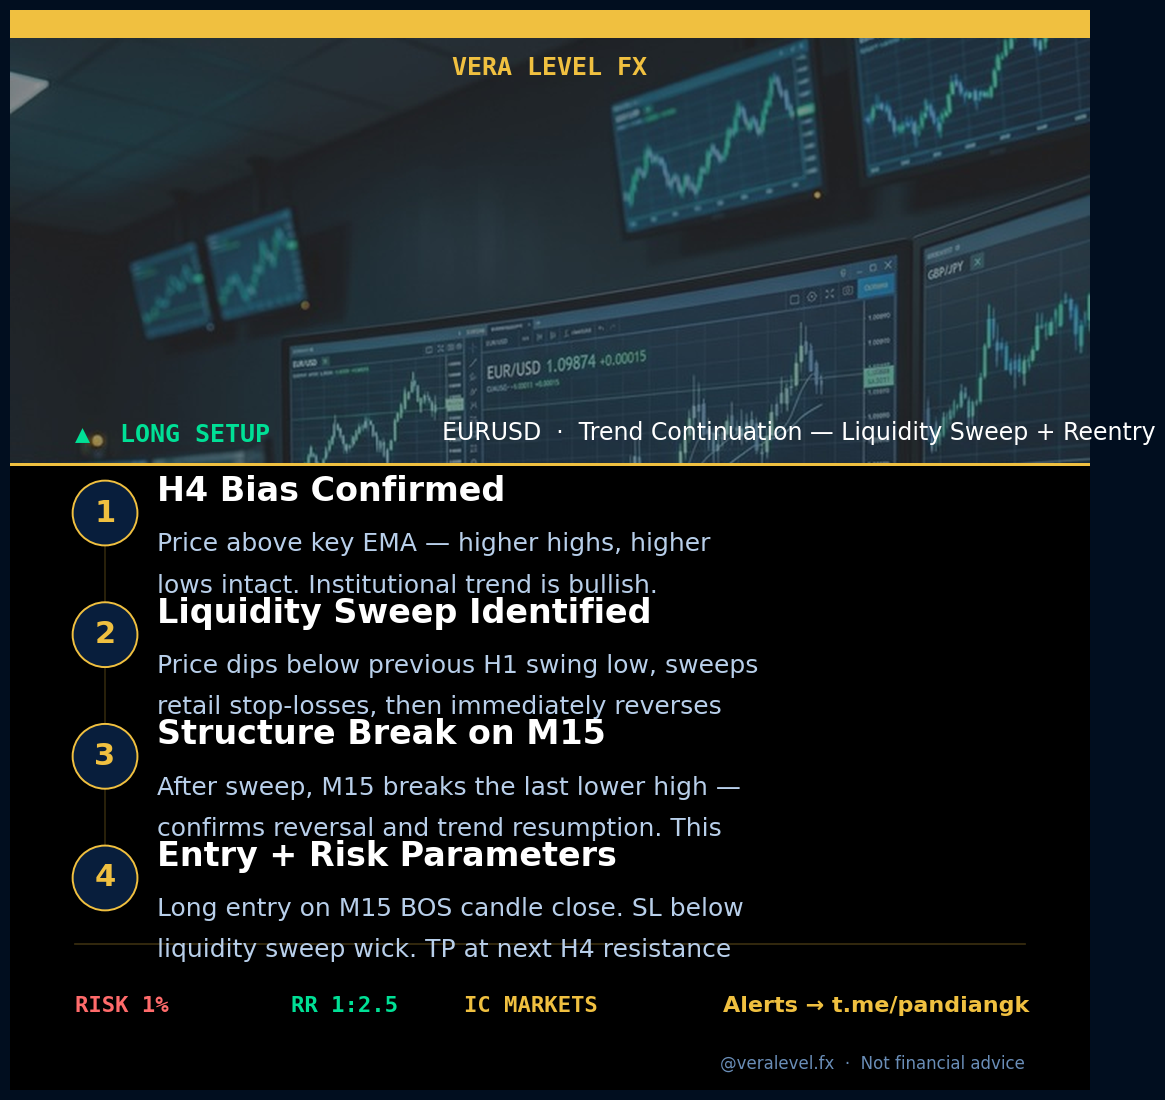
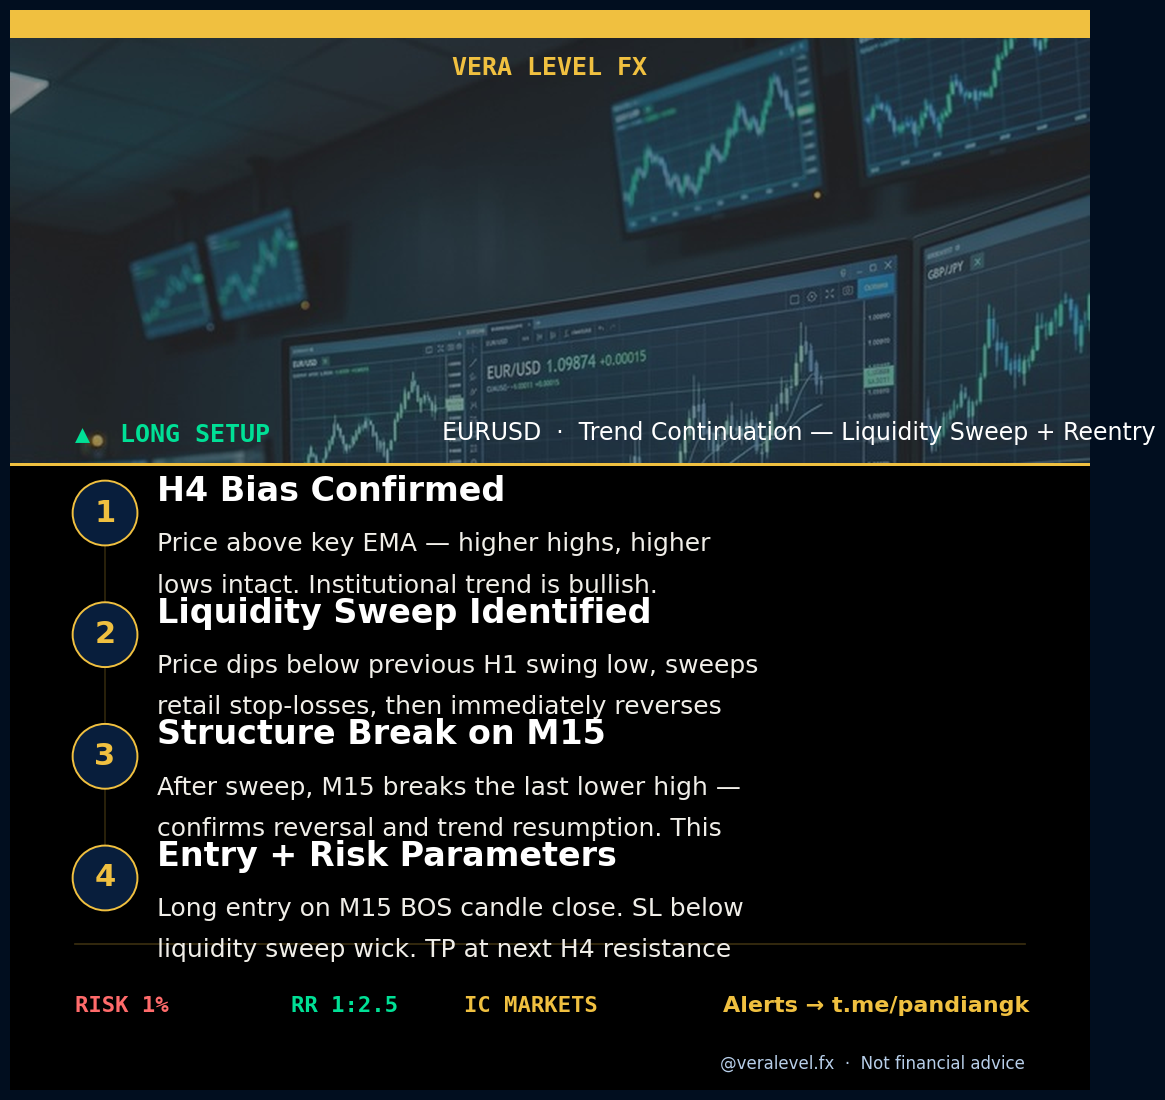
style: fix font visibility — upgrade DIM labels to MUTED, body to CREAM
DIM (#6A8EB8) was invisible on most AI backgrounds. Changes:
- All data labels (ACCOUNT SIZE, EQUITY, BALANCE, column headers,
  stat labels, entry prices): DIM → MUTED (#B8CFEA)
- Body/description/secondary text: MUTED → CREAM (#F0EEE8)
- Footer alpha transparency removed — color=MUTED at full opacity
- Column header fontsize 12 → 13 for better legibility

diff --git a/instagram/generate_edu.py b/instagram/generate_edu.py
@@ -251,28 +251,28 @@ def make_risk_post(content: dict):
     # Stats — plain text, no boxes
     _hline(ax, 0.315, alpha=0.25)
     ax.text(0.06, 0.292, 'ACCOUNT SIZE',
-            fontsize=14, color=DIM, va='center',
+            fontsize=14, color=MUTED, va='center',
             transform=ax.transAxes, fontfamily='monospace', zorder=5)
     ax.text(0.06, 0.258, f'${content["example_account"]:,}',
             fontsize=36, fontweight='bold', color=GOLD, va='center',
             transform=ax.transAxes, zorder=5)
 
     ax.text(0.52, 0.292, 'MAX RISK / TRADE',
-            fontsize=14, color=DIM, va='center',
+            fontsize=14, color=MUTED, va='center',
             transform=ax.transAxes, fontfamily='monospace', zorder=5)
     ax.text(0.52, 0.258, f'${content["example_risk"]:,}',
             fontsize=36, fontweight='bold', color=RED, va='center',
             transform=ax.transAxes, zorder=5)
 
     ax.text(0.06, 0.215, f'RR  →  {content["example_rr"]}',
-            fontsize=18, color=MUTED, va='center',
+            fontsize=18, color=CREAM, va='center',
             transform=ax.transAxes, fontfamily='monospace', zorder=5)
 
     # CTA
     _hline(ax, 0.196, alpha=0.25)
     ax.text(0.06, 0.162,
             os.environ.get('BRAND_SIGNAL_CTA', '>>  join our live signals channel'),
-            fontsize=20, color=MUTED, va='center',
+            fontsize=20, color=CREAM, va='center',
             transform=ax.transAxes, fontfamily='monospace', zorder=5)
 
     # Footer
@@ -281,7 +281,7 @@ def make_risk_post(content: dict):
             fontsize=15, color=GOLD, va='center', ha='right',
             transform=ax.transAxes, fontweight='bold', zorder=5)
     ax.text(0.94, 0.030, 'Not financial advice  ·  IC MARKETS · ASIC',
-            fontsize=12, color=DIM, ha='right', va='center',
+            fontsize=12, color=MUTED, ha='right', va='center',
             transform=ax.transAxes, fontfamily='monospace', zorder=5)
 
     return fig
@@ -318,7 +318,7 @@ def make_pairs_post(content: dict):
             ha='center', va='center',
             transform=ax.transAxes, fontfamily='monospace', zorder=6)
     ax.text(0.5, 0.916, 'ALGORITHMIC FOREX  ·  IC MARKETS  ·  MYFXBOOK VERIFIED',
-            fontsize=13, color=MUTED, ha='center', va='center',
+            fontsize=13, color=CREAM, ha='center', va='center',
             transform=ax.transAxes, fontfamily='monospace', zorder=6)
 
     # PAIR SPOTLIGHT label (at top of black panel)
@@ -354,7 +354,7 @@ def make_pairs_post(content: dict):
         cx, cy = xs[i % 2], ys[i // 2]
         # Label
         ax.text(cx, cy + ch - 0.004, label,
-                fontsize=13, color=DIM, fontweight='bold', va='top',
+                fontsize=13, color=MUTED, fontweight='bold', va='top',
                 transform=ax.transAxes, fontfamily='monospace', zorder=6)
         # Value (wrapped, no box)
         val_lines = _wrap(str(value), 38)[:2]
@@ -376,7 +376,7 @@ def make_pairs_post(content: dict):
 
     # Footer
     ax.text(0.94, 0.032, '@veralevel.fx  ·  Not financial advice',
-            fontsize=13, color=DIM, ha='right', va='center',
+            fontsize=13, color=MUTED, ha='right', va='center',
             transform=ax.transAxes, zorder=6)
 
     return fig
@@ -461,7 +461,7 @@ def make_setup_post(content: dict):
         desc_lines = _wrap(desc, 46)
         for j, dl in enumerate(desc_lines[:2]):
             ax.text(0.136, cy - 0.008 - j * 0.038, dl,
-                    fontsize=18, color=MUTED, va='top',
+                    fontsize=18, color=CREAM, va='top',
                     transform=ax.transAxes, zorder=6, linespacing=1.3)
 
     # Bottom info (no boxes)
@@ -483,7 +483,7 @@ def make_setup_post(content: dict):
 
     # Footer
     ax.text(0.94, 0.024, '@veralevel.fx  ·  Not financial advice',
-            fontsize=12, color=DIM, ha='right', va='center',
+            fontsize=12, color=MUTED, ha='right', va='center',
             transform=ax.transAxes, zorder=6)
 
     return fig

diff --git a/instagram/generate_status.py b/instagram/generate_status.py
@@ -130,7 +130,7 @@ def make_daily_card(data: dict):
     for i, (label, value, color) in enumerate(metrics):
         mx = 0.08 + i * 0.305
         ax.text(mx + 0.10, 0.885, label,
-                fontsize=12, color=DIM, ha='center', va='center',
+                fontsize=13, color=MUTED, ha='center', va='center',
                 transform=ax.transAxes, fontfamily='monospace', zorder=6)
         ax.text(mx + 0.10, 0.854, value,
                 fontsize=20, color=color, ha='center', va='center',
@@ -161,7 +161,7 @@ def make_daily_card(data: dict):
             transform=ax.transAxes, zorder=6)
     for label, key, ha in headers:
         ax.text(col_x[key], 0.740, label,
-                fontsize=12, color=DIM, ha=ha, va='center',
+                fontsize=13, color=MUTED, ha=ha, va='center',
                 transform=ax.transAxes, fontfamily='monospace', zorder=6)
     ax.plot([0.06, 0.94], [0.722, 0.722], color=GOLD, linewidth=0.8, alpha=0.18,
             transform=ax.transAxes, zorder=6)
@@ -181,7 +181,7 @@ def make_daily_card(data: dict):
             ax.text(col_x['dir'],   ry, action[:3],         fontsize=14, fontweight='bold', color=p_color, ha='center', va='center', transform=ax.transAxes, zorder=6)
             ax.text(col_x['pnl'],   ry, f'{profit:+.0f}',   fontsize=14, color=p_color,    ha='center', va='center', transform=ax.transAxes, zorder=6)
             ax.text(col_x['pips'],  ry, _fmt_pips(t_pips),  fontsize=14, color=MUTED,      ha='center', va='center', transform=ax.transAxes, zorder=6)
-            ax.text(col_x['entry'], ry, _fmt_price(entry),  fontsize=13, color=DIM,        ha='center', va='center', transform=ax.transAxes, fontfamily='monospace', zorder=6)
+            ax.text(col_x['entry'], ry, _fmt_price(entry),  fontsize=13, color=MUTED,      ha='center', va='center', transform=ax.transAxes, fontfamily='monospace', zorder=6)
             if r < len(rows) - 1:
                 ax.plot([0.06, 0.94], [ry - 0.025, ry - 0.025],
                         color=GOLD, linewidth=0.5, alpha=0.12,
@@ -197,7 +197,7 @@ def make_daily_card(data: dict):
             color=GOLD, linewidth=0.8, alpha=0.2, transform=ax.transAxes, zorder=6)
     ax.text(0.5, bottom_y,
             f'WR {win_rate:.0f}%  ·  PF {pf:.2f}  ·  +{pips:,} pips  —  verified on Myfxbook',
-            fontsize=13, color=DIM, ha='center', va='center',
+            fontsize=13, color=MUTED, ha='center', va='center',
             transform=ax.transAxes, fontfamily='monospace', zorder=6)
 
     # CTA
@@ -208,7 +208,7 @@ def make_daily_card(data: dict):
 
     # Footer watermark
     ax.text(0.94, 0.032, '@veralevel.fx  ·  Not financial advice',
-            fontsize=12, color=WHITE, ha='right', va='center',
-            alpha=0.55, transform=ax.transAxes, fontfamily='monospace', zorder=6)
+            fontsize=12, color=MUTED, ha='right', va='center',
+            transform=ax.transAxes, fontfamily='monospace', zorder=6)
 
     return fig

diff --git a/instagram/generate.py b/instagram/generate.py
@@ -333,7 +333,7 @@ def make_winrate_card(data):
             fontsize=110, fontweight='black', color=WHITE,
             ha='center', va='center', transform=ax.transAxes, zorder=6)
     ax.text(0.5, 0.590, f'WIN RATE  ·  {trades:,} TRADES',
-            fontsize=20, color=MUTED, ha='center', va='center',
+            fontsize=20, color=CREAM, ha='center', va='center',
             transform=ax.transAxes, fontfamily='monospace', zorder=6)
 
     # Stats row (no boxes — plain labeled text like weekly card)
@@ -347,20 +347,20 @@ def make_winrate_card(data):
                 fontsize=26, fontweight='black', color=color,
                 ha='center', va='center', transform=ax.transAxes, zorder=6)
         ax.text(px, 0.514, lbl,
-                fontsize=13, color=DIM, ha='center', va='center',
+                fontsize=13, color=MUTED, ha='center', va='center',
                 transform=ax.transAxes, fontfamily='monospace', zorder=6)
 
     # Profit factor
     ax.text(0.5, 0.462,
             f'Profit Factor {pf:.2f}  ·  1% max risk per trade',
-            fontsize=17, color=DIM, ha='center', va='center',
+            fontsize=17, color=MUTED, ha='center', va='center',
             transform=ax.transAxes, fontfamily='monospace', zorder=6)
 
     # CTAs
     _hline(ax, 0.420, alpha=0.2)
     ax.text(0.5, 0.388,
             'Verify every trade yourself  →  Myfxbook.com',
-            fontsize=17, color=MUTED, ha='center', va='center',
+            fontsize=17, color=CREAM, ha='center', va='center',
             transform=ax.transAxes, zorder=6)
     ax.text(0.5, 0.355,
             'Open IC Markets  →  icmarkets.com/?camp=91936',
@@ -369,8 +369,7 @@ def make_winrate_card(data):
 
     # Footer
     ax.text(0.5, 0.040, '@veralevel.fx  ·  VERA LEVEL FX  ·  Not financial advice',
-            fontsize=14, color=WHITE, ha='center', va='center',
-            alpha=0.45, transform=ax.transAxes,
-            fontfamily='monospace', zorder=6)
+            fontsize=14, color=MUTED, ha='center', va='center',
+            transform=ax.transAxes, fontfamily='monospace', zorder=6)
 
     return fig
